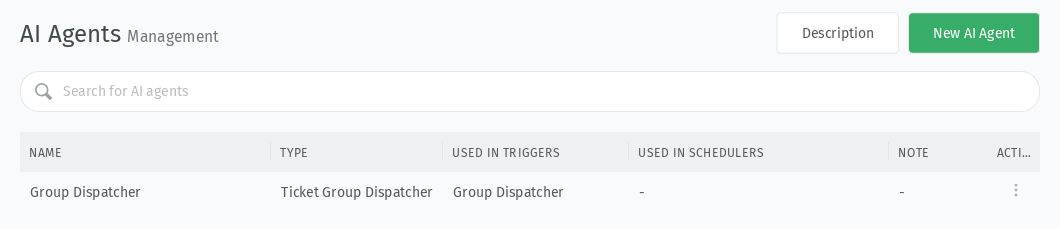
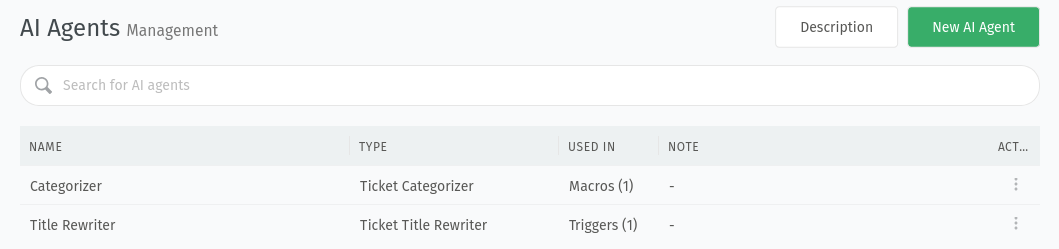
Fixes #1002 - Add AI agent usage in macros

diff --git a/ai/ai-agents.rst b/ai/ai-agents.rst
@@ -24,9 +24,9 @@ Important Information
 
 - To configure AI agents, the ``admin.ai_agent`` permission is required
 - AI agents don't run on their own. They have to be invoked by a
-  :doc:`trigger </manage/trigger>` or a
-  :doc:`scheduler job </manage/scheduler>` with the action
-  **AI** > **AI Agent**.
+  :doc:`trigger </manage/trigger>`, a :doc:`scheduler job </manage/scheduler>`
+  or a :doc:`macro </manage/macros>` with the action **AI** > **AI Agent**.
+- By creating a macro with an AI agent action, your agents can run it on demand.
 - If an AI agent applies changes to a ticket, you can find an entry in the
   ticket history with the name of the AI agent.
 
@@ -42,17 +42,17 @@ Create an AI agent by clicking the **New AI Agent** button in the top right
 corner. This opens a wizard where you can choose the type of the agent and
 additional settings based on the selected type, see :ref:`ai-agent-types` for
 details. The action column with the ︙ button allows you to clone or delete an
-AI agent. You can only delete AI agents which are not used in triggers and
-schedulers. You can find this information in the two columns in the AI agent
-table.
+AI agent. You can only delete AI agents which are not used in triggers,
+scheduler jobs and macros. Check the **Used in** column and hover over an
+entry to see where an AI agent is used.
 
 .. _ai-agent-types:
 
 AI Agent Types
 --------------
 
-Define your AI agents and use them afterwards in triggers or scheduler jobs.
-An example for a trigger configuration could look like this:
+Define your AI agents and use them afterwards in triggers, scheduler jobs or
+macros. An example for a trigger configuration could look like this:
 
 - Activated by: **Action**
 - Action execution: **Selective**

diff --git a/manage/macros/how-do-they-work.rst b/manage/macros/how-do-they-work.rst
@@ -20,6 +20,7 @@ Creating Macros
 
    * set ticket attributes (priority, state, group, etc.)
    * add new notes to a ticket
+   * run an :doc:`AI agent </ai/ai-agents>`
 
    There are **no** actions for:
 
